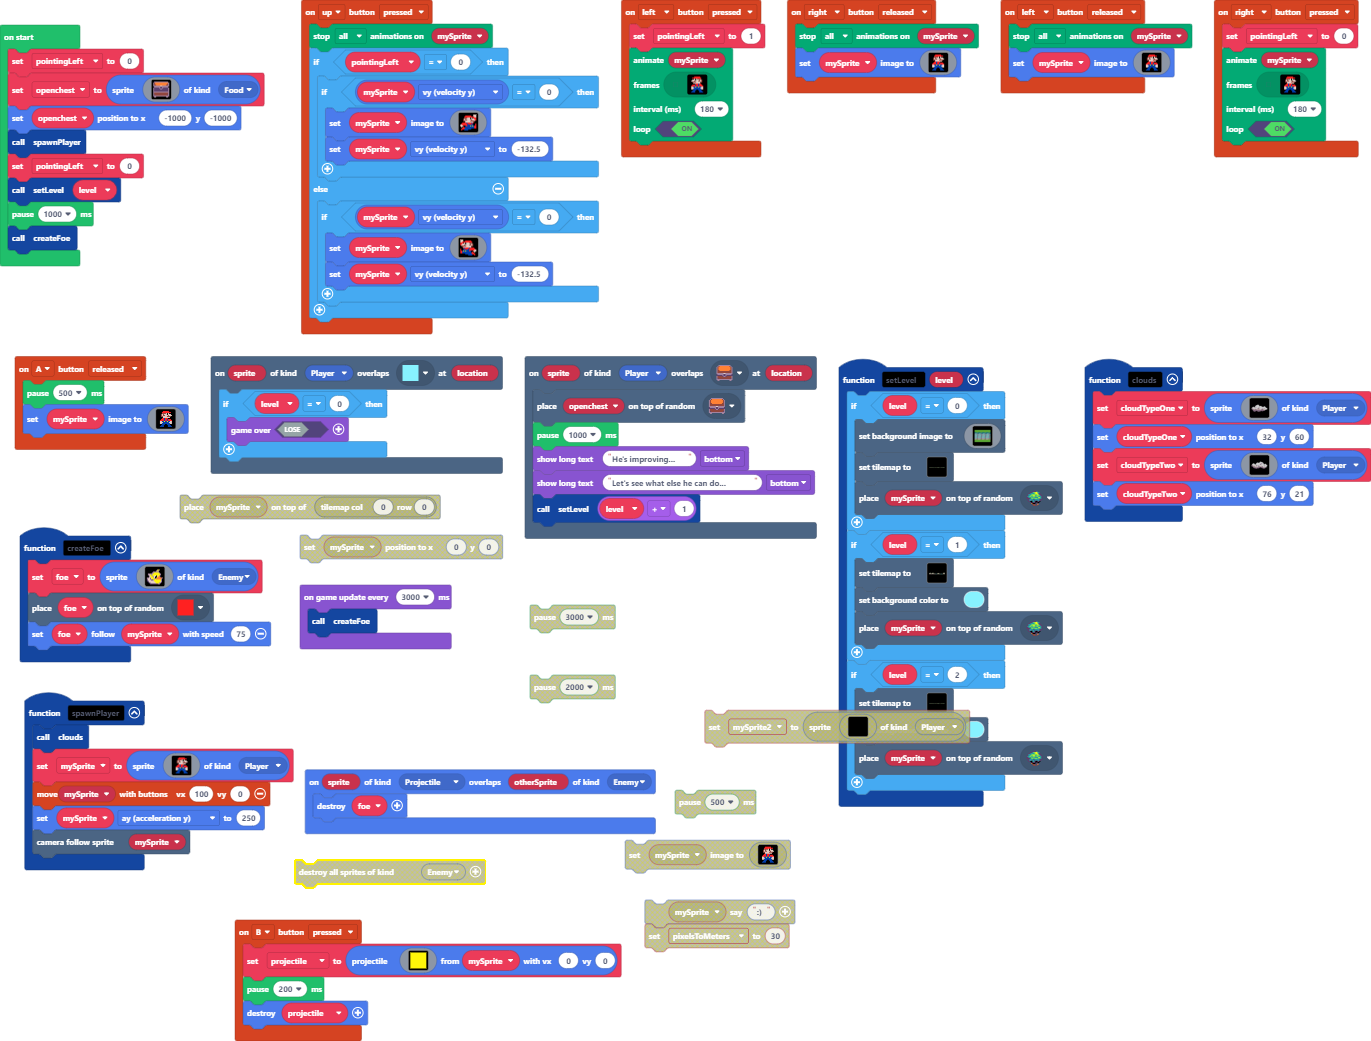
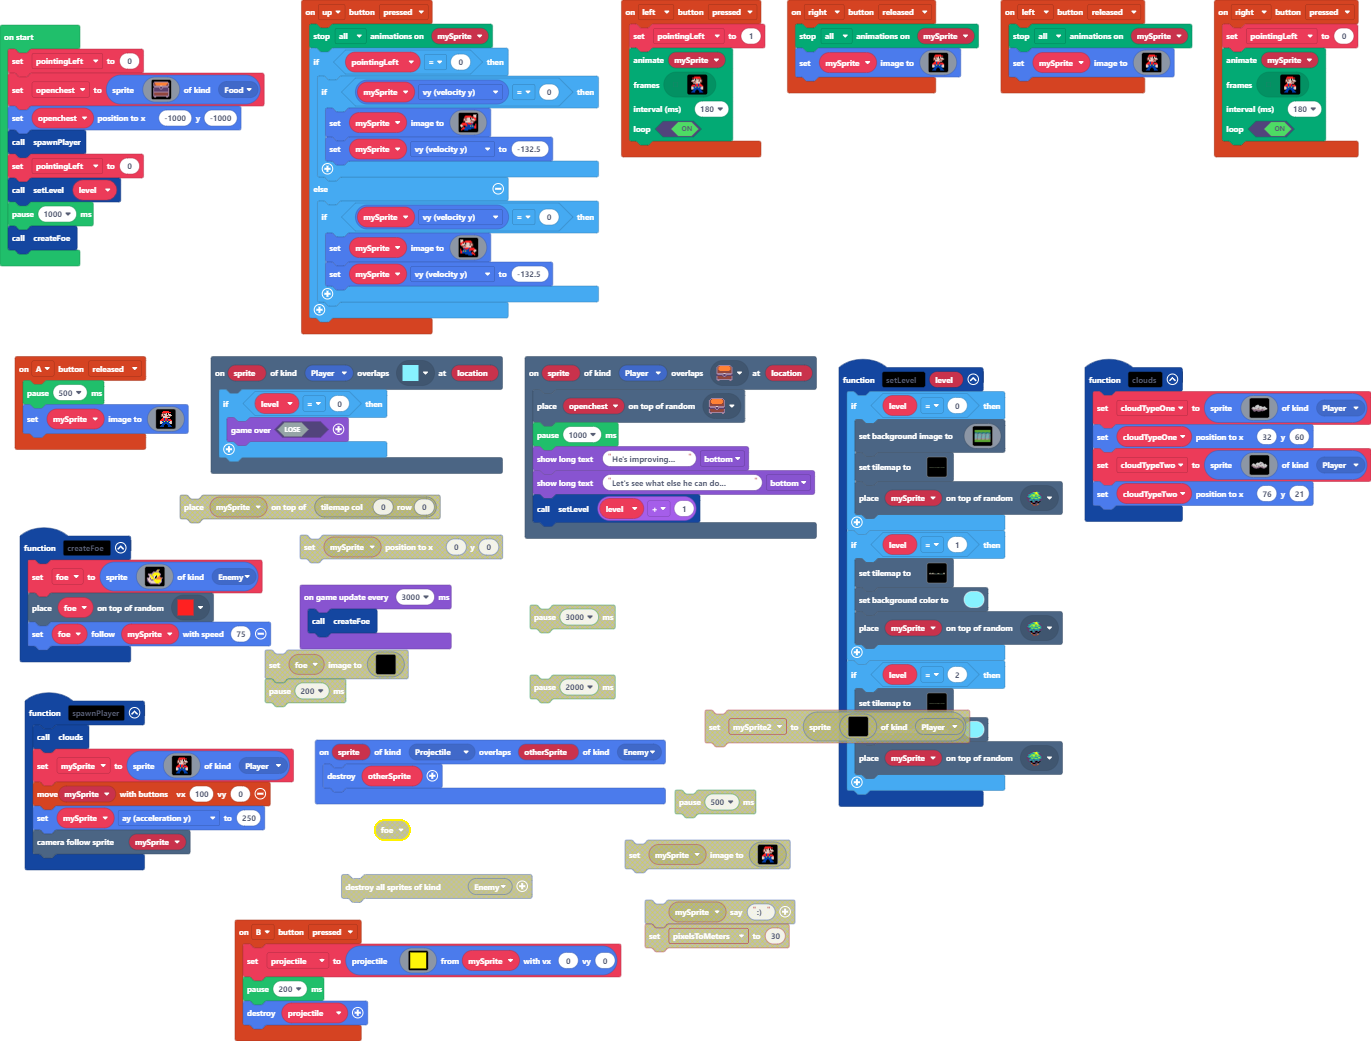
Update main.blocks, main.ts

Changed region(s): [[0.2144, 0.707, 0.4902, 0.8915], [0.1838, 0.6148, 0.3063, 0.6763]]

diff --git a/main.ts b/main.ts
@@ -360,7 +360,7 @@ function createFoe () {
     foe.follow(mySprite, 75)
 }
 sprites.onOverlap(SpriteKind.Projectile, SpriteKind.Enemy, function (sprite, otherSprite) {
-    foe.destroy()
+    otherSprite.destroy()
 })
 let foe: Sprite = null
 let cloudTypeTwo: Sprite = null
